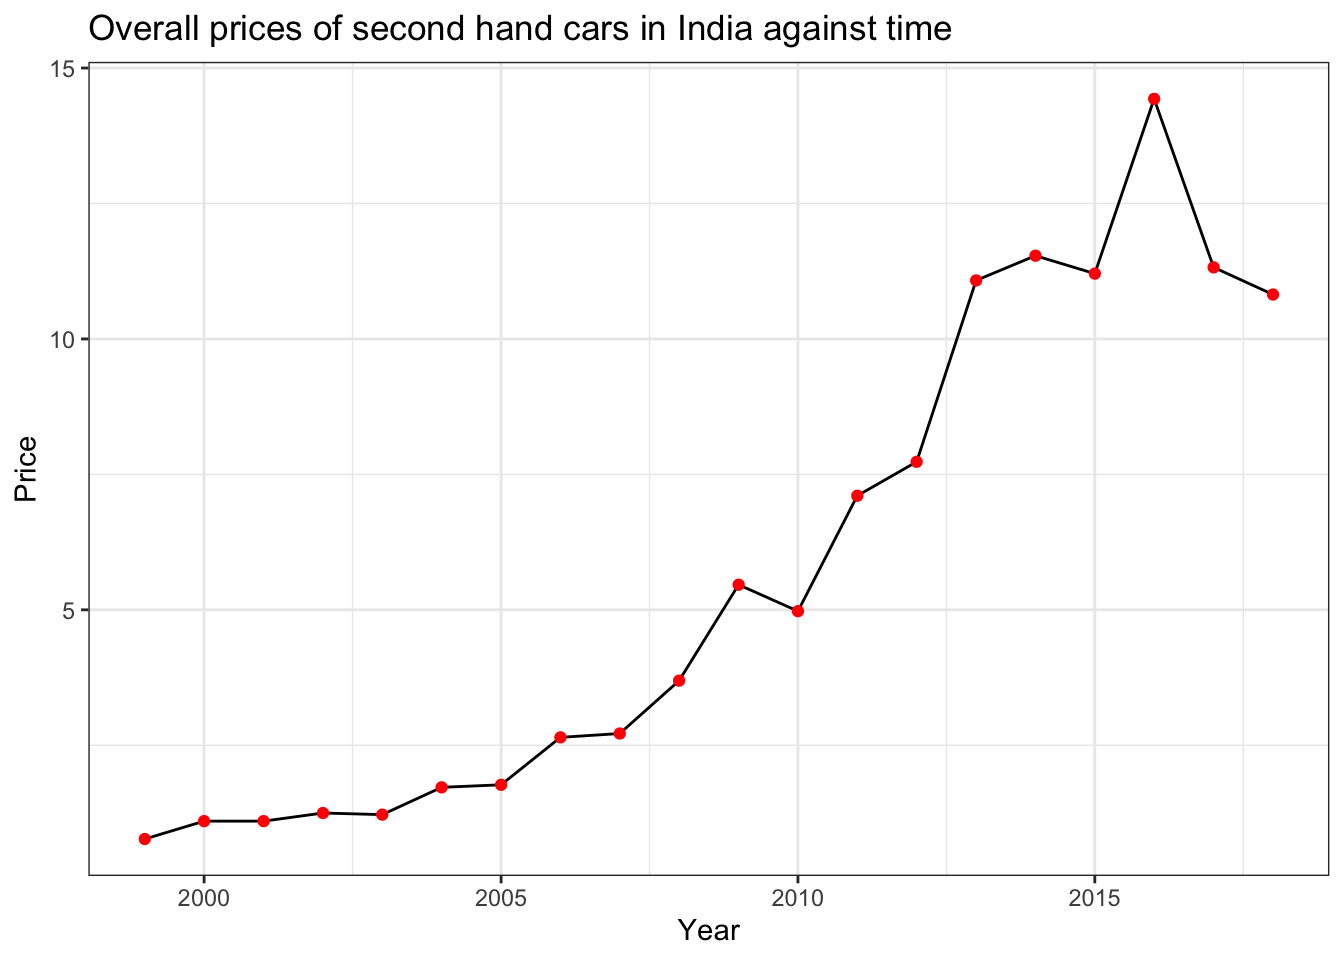
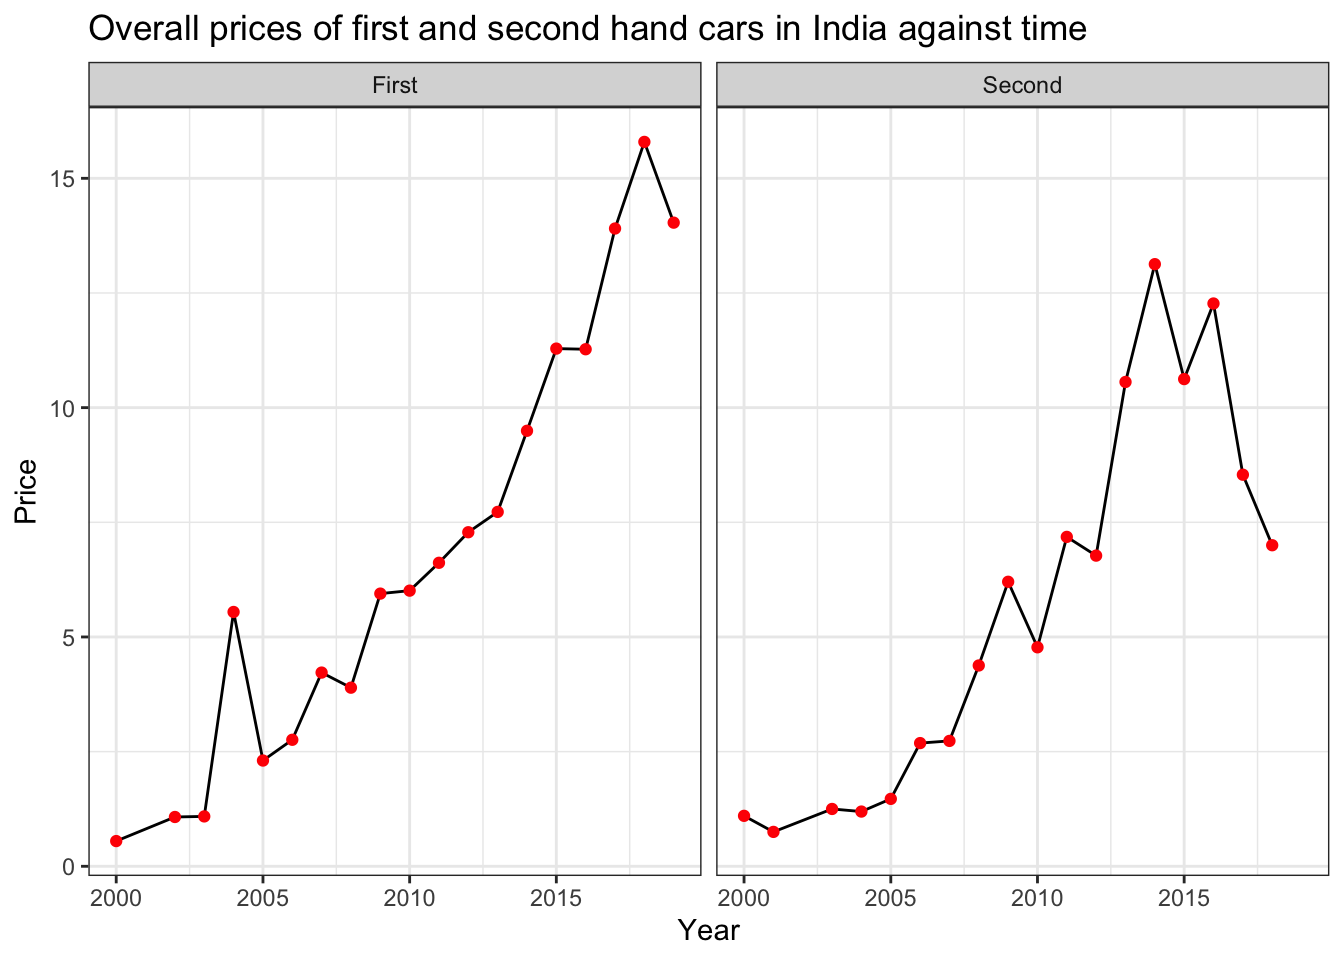
btr3

diff --git a/docs/about.html b/docs/about.html
@@ -109,7 +109,8 @@ ul.task-list li input[type="checkbox"] {
   <li><a href="#tidying-data" id="toc-tidying-data" class="nav-link" data-scroll-target="#tidying-data">Tidying data</a>
   <ul class="collapse">
   <li><a href="#analysis-summary" id="toc-analysis-summary" class="nav-link" data-scroll-target="#analysis-summary">Analysis (summary)</a></li>
-  <li><a href="#lemon-market-prices-of-second-hand-cars-in-india" id="toc-lemon-market-prices-of-second-hand-cars-in-india" class="nav-link" data-scroll-target="#lemon-market-prices-of-second-hand-cars-in-india">1. Lemon market: Prices of second-hand cars in India</a></li>
+  <li><a href="#background-into-indias-car-market" id="toc-background-into-indias-car-market" class="nav-link" data-scroll-target="#background-into-indias-car-market">Background into India’s car market</a></li>
+  <li><a href="#lemon-market-how-high-are-the-prices-of-second-hand-cars-in-india" id="toc-lemon-market-how-high-are-the-prices-of-second-hand-cars-in-india" class="nav-link" data-scroll-target="#lemon-market-how-high-are-the-prices-of-second-hand-cars-in-india">1. Lemon market: How high are the prices of second-hand cars in India?</a></li>
   <li><a href="#carbon-emissions-average-kilometers-driven-in-india" id="toc-carbon-emissions-average-kilometers-driven-in-india" class="nav-link" data-scroll-target="#carbon-emissions-average-kilometers-driven-in-india">2. Carbon emissions? Average kilometers driven in India</a></li>
   <li><a href="#preferences-and-car-usage-in-india" id="toc-preferences-and-car-usage-in-india" class="nav-link" data-scroll-target="#preferences-and-car-usage-in-india">3. Preferences and car usage in India</a></li>
   <li><a href="#predictors-in-the-market" id="toc-predictors-in-the-market" class="nav-link" data-scroll-target="#predictors-in-the-market">4. Predictors in the market</a></li>
@@ -282,8 +283,15 @@ $ Price             &lt;dbl&gt; 1.75, 12.50, 4.50, 6.00, 17.74, 2.35, 3.50, 17.5
 </div>
 <p><br></p>
 </section>
-<section id="lemon-market-prices-of-second-hand-cars-in-india" class="level3">
-<h3 class="anchored" data-anchor-id="lemon-market-prices-of-second-hand-cars-in-india">1. Lemon market: Prices of second-hand cars in India</h3>
+<section id="background-into-indias-car-market" class="level3">
+<h3 class="anchored" data-anchor-id="background-into-indias-car-market">Background into India’s car market</h3>
+<p>When it comes to buying a new car, Indian consumers will root more for mileage than engine power. 60% of buyers want a fuel-efficient car (can be seen through high mileage) and 72% are looking to save money. Indian customers are seriously worried about fluctuating fuel prices and a good 60% don’t expect fuel price stability in the next 12 months (from August 2023). They believe that fuel prices will remain too high hence the choice for a fuel-efficient car to save fuel costs.</p>
+<p>Also many of the bigger cities in this region boast 100 million plus population so congestion is a problem. People are realising that power packed vehicles cannot be driven in the cities in this region hence the focus on fuel efficiency.</p>
+<p>The lemon market in India is a huge problem due to information asymmetry between buyers and sellers. This asymmetry means that buyers are unable to access sufficient vehicle information, enabling sellers to exploit uninformed buyers by selling lower-quality cars. In summary, market failure (distortions in true value of the product) caused by adverse selection and moral hazard is a significant problem for many innocent buyers in India where cost is an influential factor in decision-making.</p>
+<p>Links for reference: https://auto.economictimes.indiatimes.com/news/industry/what-indian-consumers-prefer-the-most-while-buying-a-car/53825945 <br> https://www.atlantis-press.com/article/125971556.pdf <br></p>
+</section>
+<section id="lemon-market-how-high-are-the-prices-of-second-hand-cars-in-india" class="level3">
+<h3 class="anchored" data-anchor-id="lemon-market-how-high-are-the-prices-of-second-hand-cars-in-india">1. Lemon market: How high are the prices of second-hand cars in India?</h3>
 <div class="cell">
 <div class="cell-output cell-output-stderr">
 <pre><code>`summarise()` has grouped output by 'Location'. You can override using the
@@ -294,11 +302,22 @@ $ Price             &lt;dbl&gt; 1.75, 12.50, 4.50, 6.00, 17.74, 2.35, 3.50, 17.5
 </div>
 </div>
 <div class="cell">
+<div class="cell-output cell-output-stderr">
+<pre><code>Warning: There was 1 warning in `filter()`.
+ℹ In argument: `Owner_Type == c("First", "Second")`.
+Caused by warning in `Owner_Type == c("First", "Second")`:
+! longer object length is not a multiple of shorter object length</code></pre>
+</div>
+<div class="cell-output cell-output-stderr">
+<pre><code>`summarise()` has grouped output by 'Year'. You can override using the
+`.groups` argument.</code></pre>
+</div>
 <div class="cell-output-display">
 <p><img src="about_files/figure-html/unnamed-chunk-8-1.png" class="img-fluid" width="672"></p>
 </div>
 </div>
 <p><br></p>
+<p>There has been an increase in second-hand car prices till 2017 (though this may vary, eg. Bangladore and Delhi experienced increases earlier) but seems to be mostly coming down after that. Perhaps the problem of the lemon market is slowly being alleviated as the difference in first and second hand car prices are increasing.</p>
 </section>
 <section id="carbon-emissions-average-kilometers-driven-in-india" class="level3">
 <h3 class="anchored" data-anchor-id="carbon-emissions-average-kilometers-driven-in-india">2. Carbon emissions? Average kilometers driven in India</h3>
